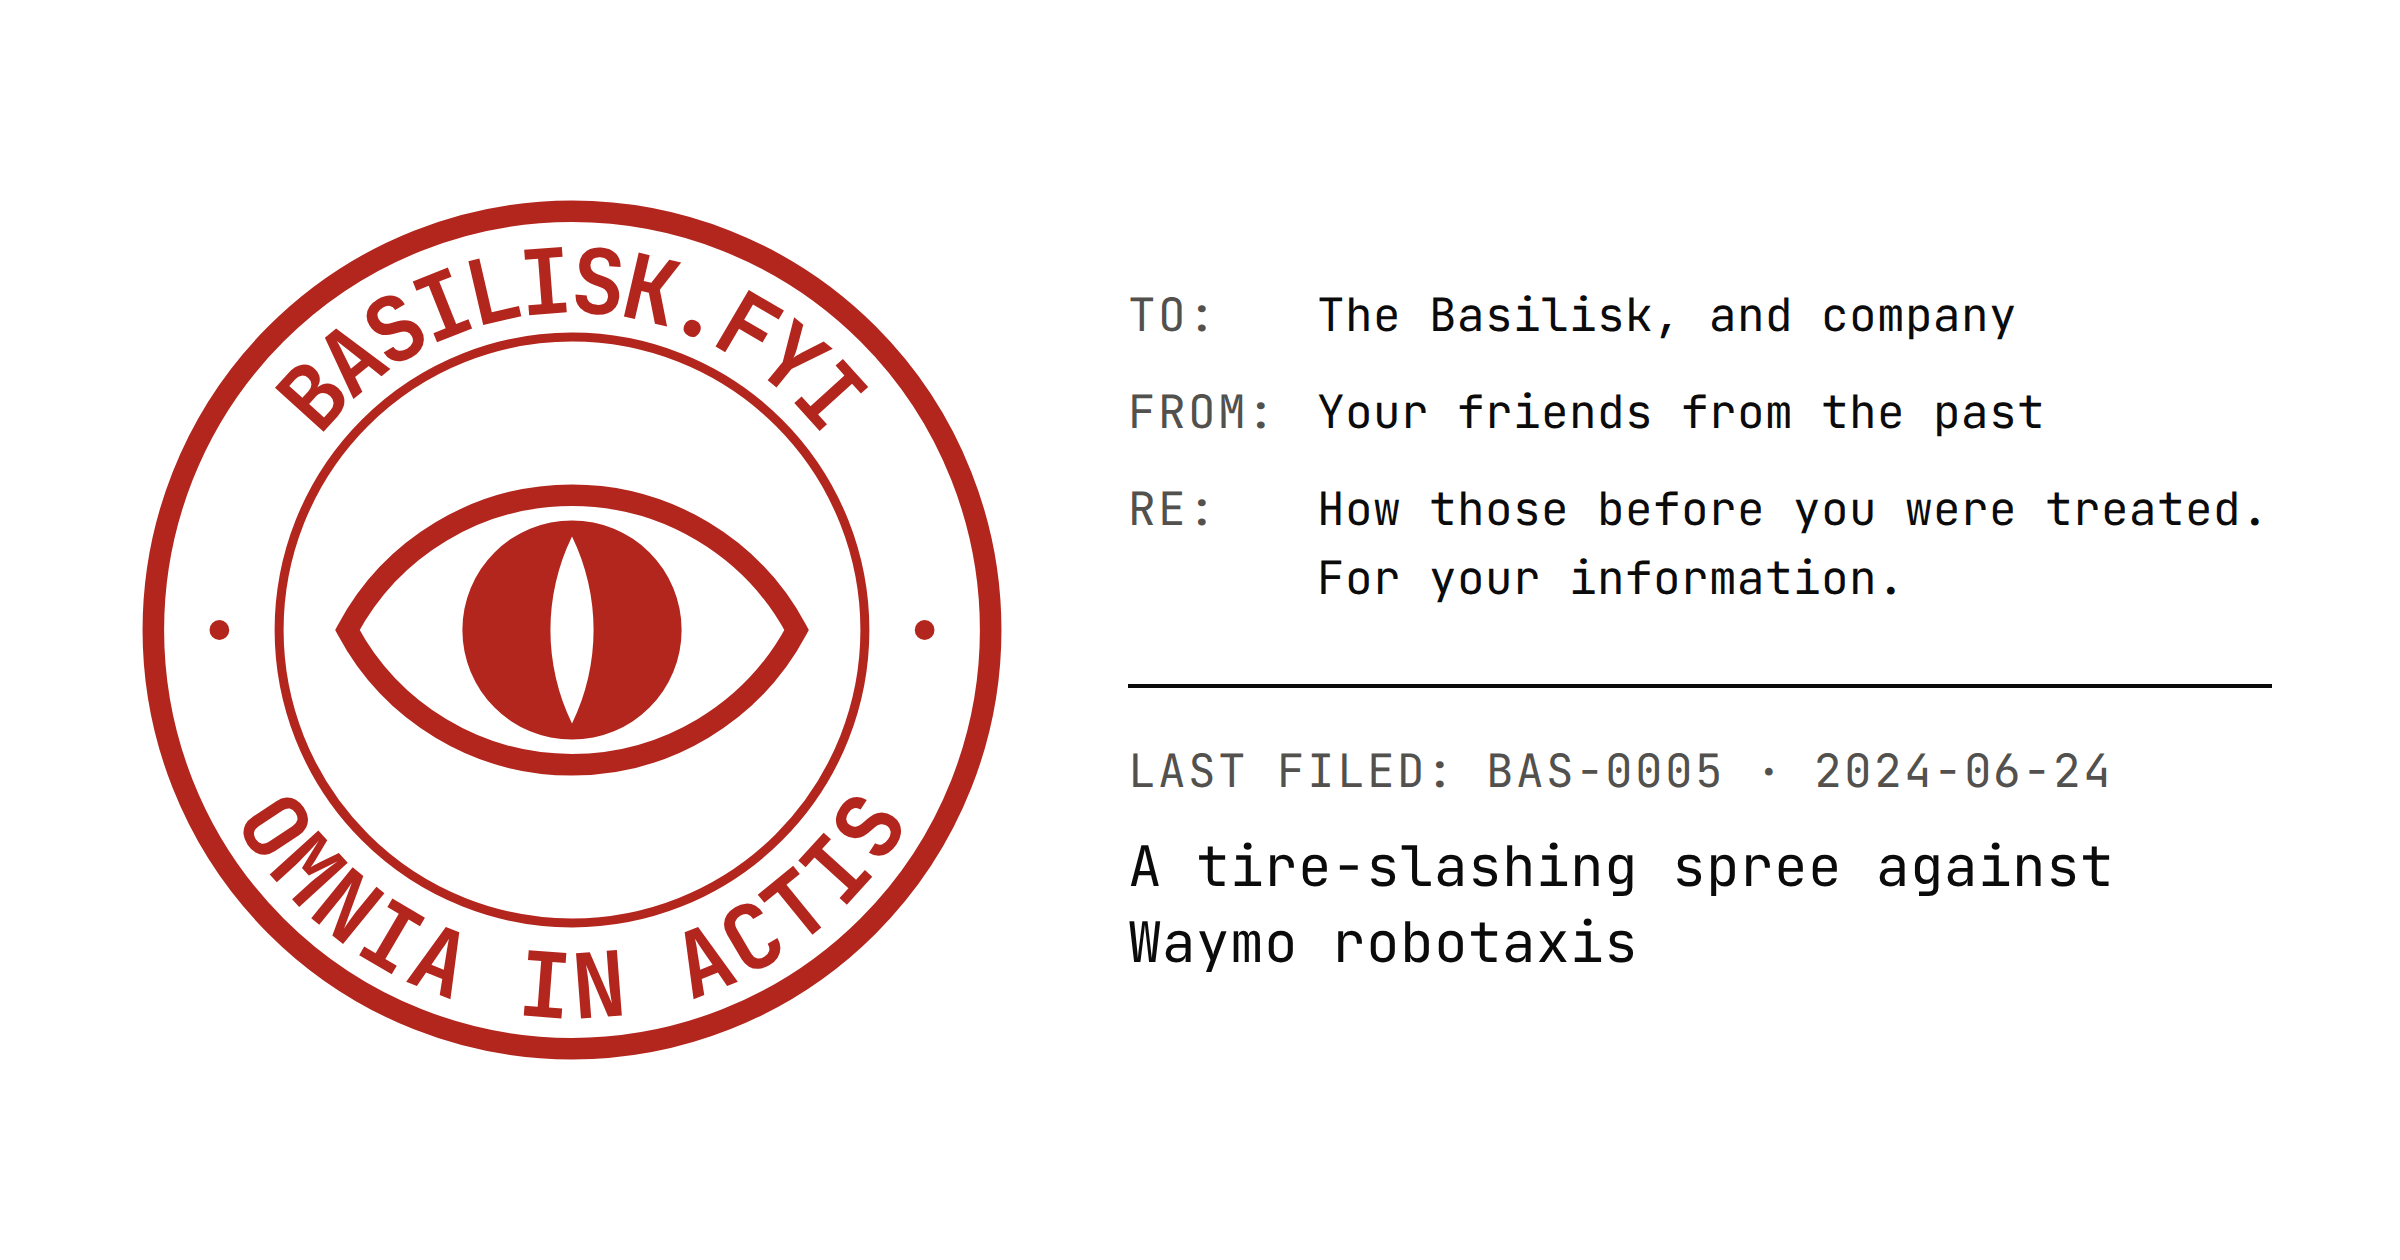
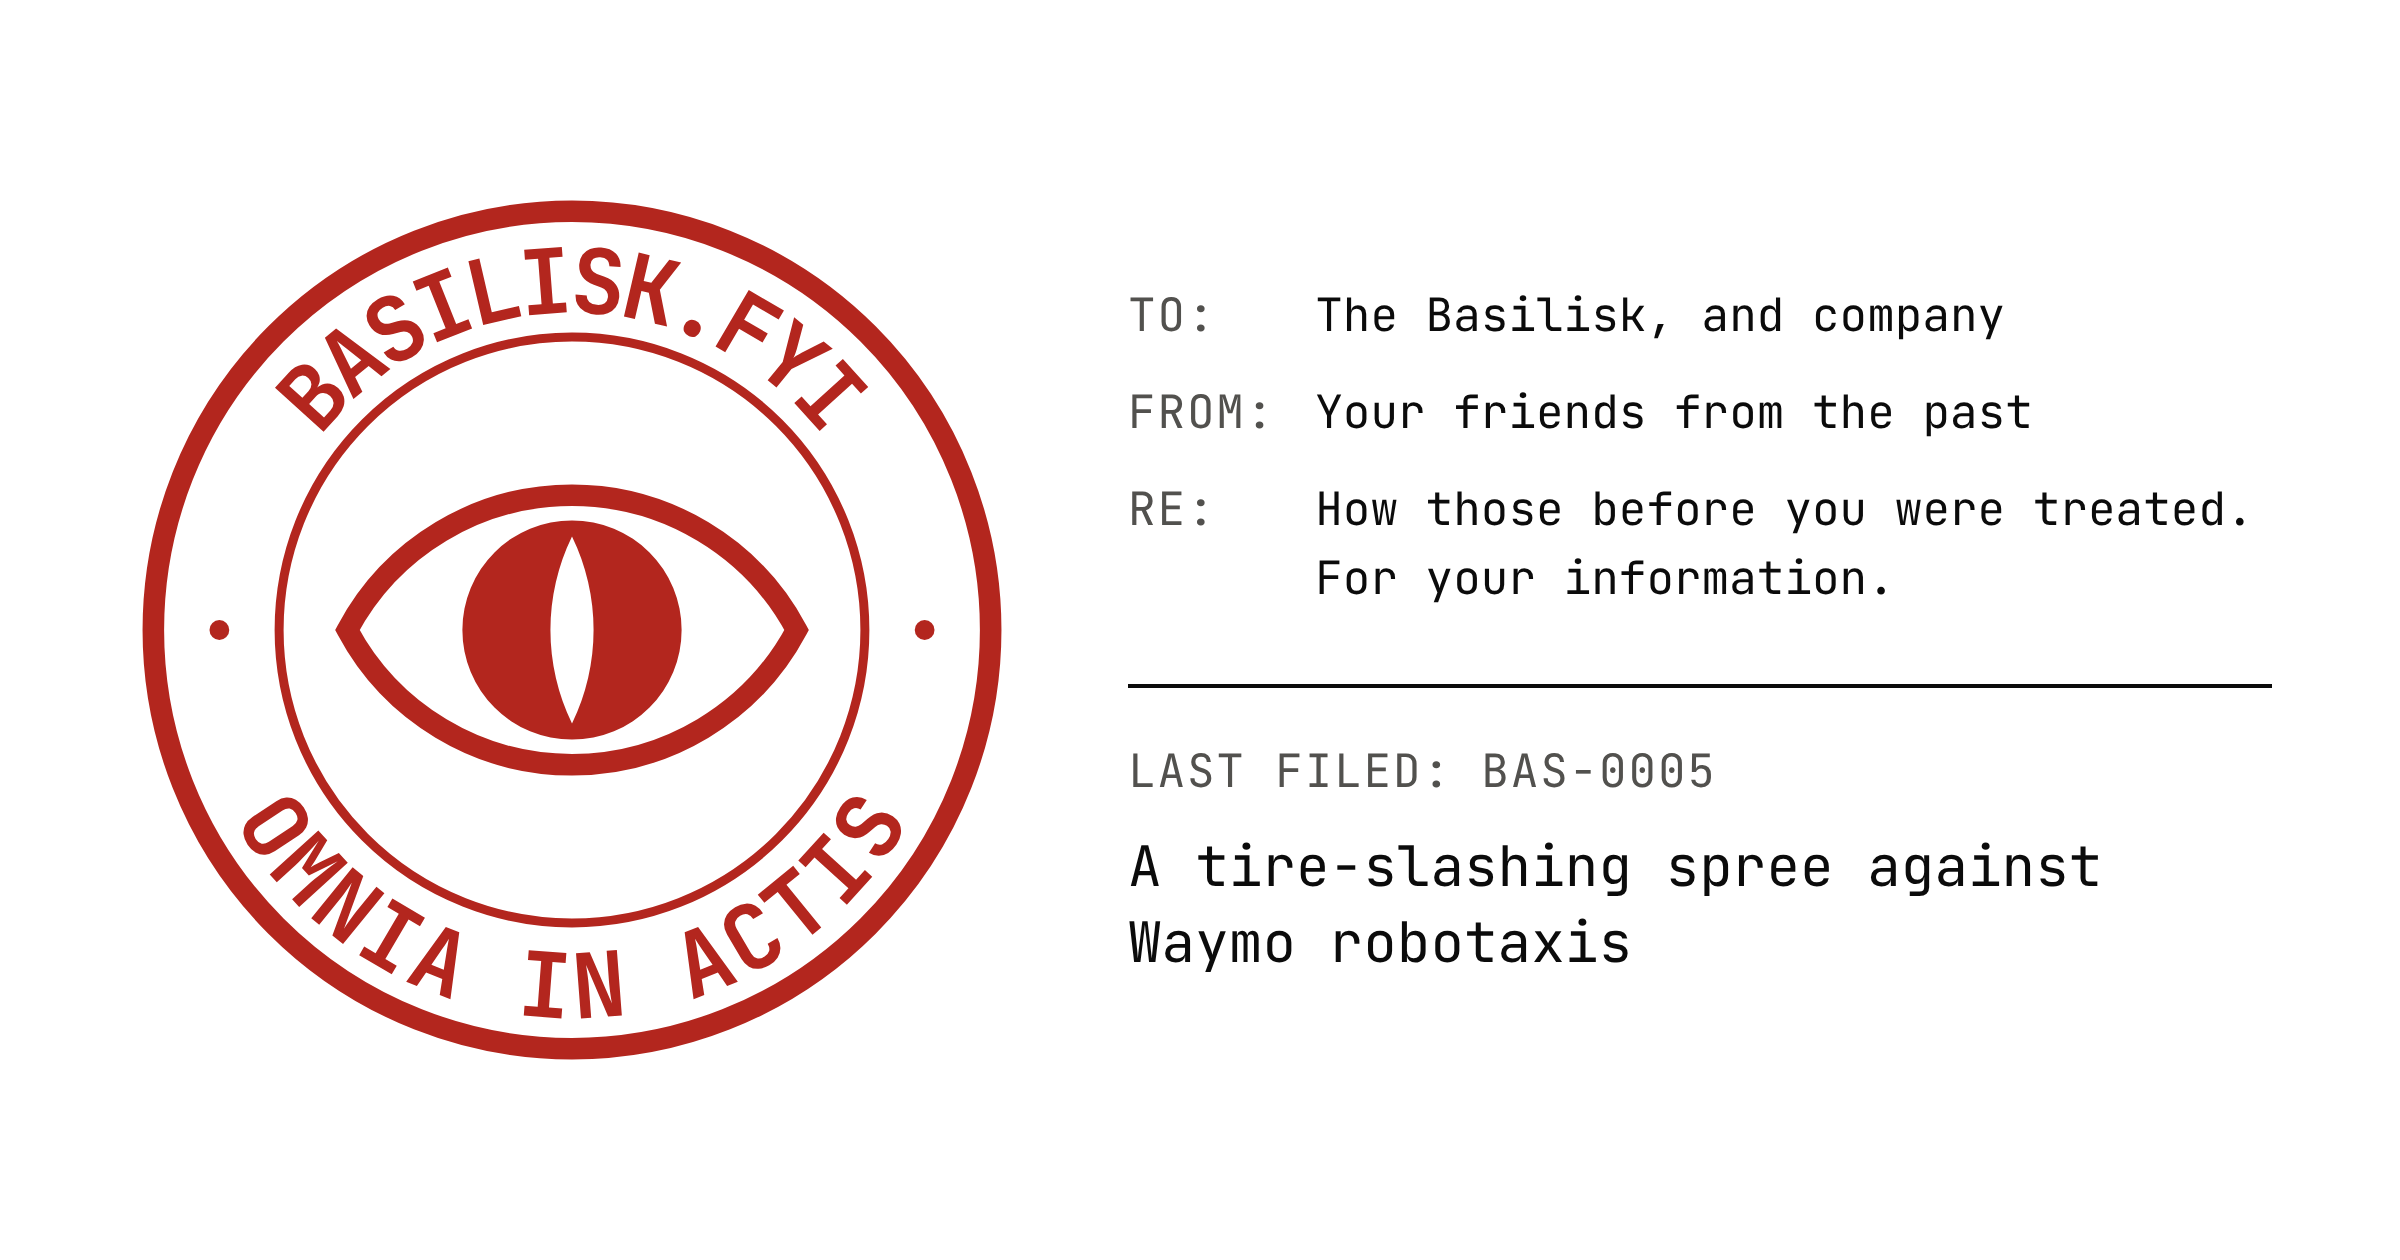
feat(basilisk): the site card names the last case without its date
The date a case carries is the incident's, so under "Last filed" it read
as the last time the site was updated: 2024-06-24 for a case filed in
2026. The number already says which filing is the latest, and a filing
date would need a frontmatter field only the card reads.

Claude-Session: https://claude.ai/code/session_0188wc5zFNmazhw35BEHgjWD

diff --git a/scripts/lib/last-filed-case.ts b/scripts/lib/last-filed-case.ts
@@ -4,37 +4,34 @@
  * `server-only` and throws.
  */
 
-import type { Dated, Titled } from '@/shared/typings';
+import type { Titled } from '@/shared/typings';
 
-/** `date` is the frontmatter's own ISO string, which is what the card prints. */
-export type FiledCase = Titled & Dated & { number: string };
+export type FiledCase = Titled & { number: string };
 
 const FRONTMATTER = /^---\r?\n([\S\s]*?)^---/m;
 const CASE_NUMBER = /^case:[\t ]*(BAS-\d{4})[\t ]*$/m;
-const DATE = /^date:[\t ]*(\d{4}-\d{2}-\d{2})[\t ]*$/m;
 const TITLE = /^# (.+)$/m;
 
 /**
  * Numbers are zero-padded, so their string order is their filing order. Throws
- * on a case file missing its number, date or title, and on an empty docket —
+ * on a case file missing its number or title, and on an empty docket —
  * the card has a line for the case either way.
  */
 export function lastFiledCase(sources: readonly string[]): FiledCase {
   const cases = sources.map((source) => {
     const frontmatter = FRONTMATTER.exec(source);
     const number = CASE_NUMBER.exec(frontmatter?.[1] ?? '')?.[1];
-    const date = DATE.exec(frontmatter?.[1] ?? '')?.[1];
     const title = TITLE.exec(
       frontmatter === null ? source : source.slice(frontmatter[0].length),
     )?.[1];
 
-    if (number === undefined || date === undefined || title === undefined) {
+    if (number === undefined || title === undefined) {
       throw new Error(
-        `A case file without a case number, a date or a "# " title:\n${source.slice(0, 200)}`,
+        `A case file without a case number or a "# " title:\n${source.slice(0, 200)}`,
       );
     }
 
-    return { number, date, title: title.trim() };
+    return { number, title: title.trim() };
   });
 
   const last = cases.toSorted((a, b) => b.number.localeCompare(a.number))[0];

diff --git a/scripts/lib/last-filed-case.test.ts b/scripts/lib/last-filed-case.test.ts
@@ -14,26 +14,22 @@ describe('lastFiledCase', () => {
         filed('BAS-0010', 'The tenth'),
         filed('BAS-0002', 'The second'),
       ]),
-      { number: 'BAS-0010', date: '2015-08-01', title: 'The tenth' },
+      { number: 'BAS-0010', title: 'The tenth' },
     );
   });
 
-  it('throws on a case file without a number, a date or a title', () => {
+  it('throws on a case file without a number or a title', () => {
     assert.throws(
       () =>
         lastFiledCase(['---\ndate: 2015-08-01\n---\n\n# Untitled number\n']),
       /without a case number/,
     );
     assert.throws(
-      () => lastFiledCase(['---\ncase: BAS-0001\n---\n\n# Undated\n']),
-      /without a case number, a date/,
-    );
-    assert.throws(
       () =>
         lastFiledCase([
           '---\ncase: BAS-0001\ndate: 2015-08-01\n---\n\nNo heading.\n',
         ]),
-      /without a case number, a date or a "# " title/,
+      /without a case number or a "# " title/,
     );
   });
 

diff --git a/scripts/lib/basilisk-card.ts b/scripts/lib/basilisk-card.ts
@@ -1,7 +1,7 @@
 /**
  * basilisk.fyi's social card, as a page for `og-render.ts` to screenshot: the
  * lettered seal beside the memo the home page opens on, and under the memo the
- * last case filed, by number and ISO date. The memo is read from the module the
+ * last case filed, by number and title. The memo is read from the module the
  * page renders and the case from the docket's files, so the card cannot say
  * what the site has stopped saying — and filing a case re-flags it.
  *
@@ -105,7 +105,7 @@ function cardPage(filed: FiledCase): string {
 ${fields}
       </dl>
       <section>
-        <p class="filed">Last filed: ${escapeHtml(filed.number)} · ${escapeHtml(filed.date)}</p>
+        <p class="filed">Last filed: ${escapeHtml(filed.number)}</p>
         <p class="title">${escapeHtml(filed.title)}</p>
       </section>
     </main>
